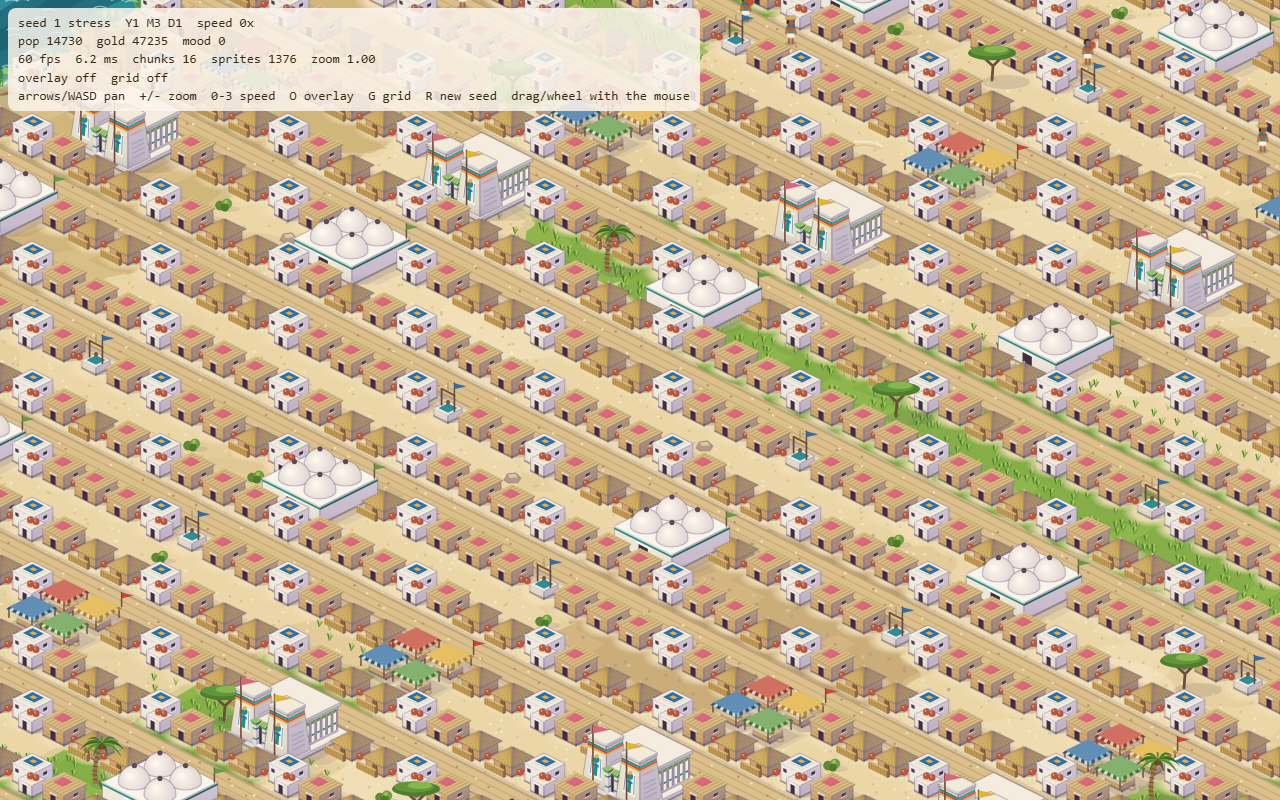
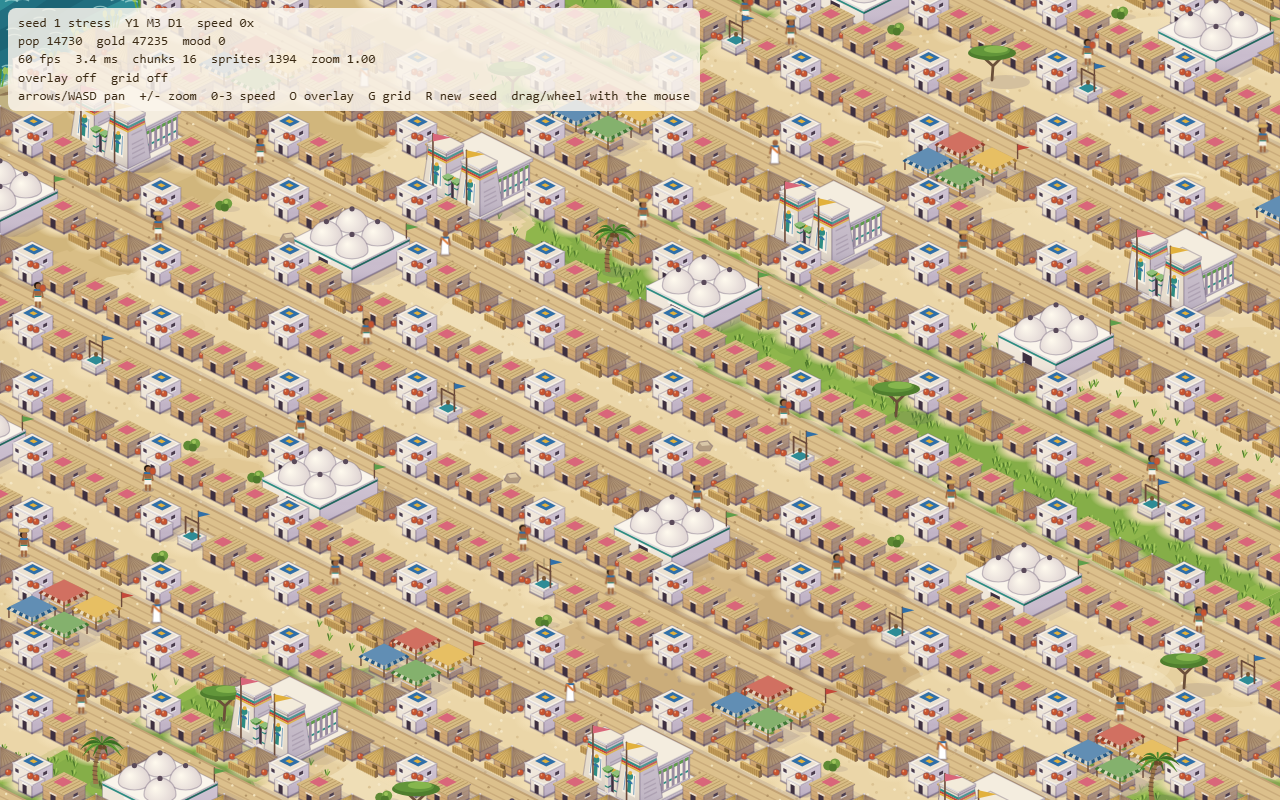
Pick the walkers nearest the view so a big city shows them where the player looks

diff --git a/src/render/walkers.js b/src/render/walkers.js
@@ -76,24 +76,39 @@ const outOfRange = (b, maxDist, range) => Boolean(range) && (
   b.x + b.w - 1 + maxDist < range.x0 || b.x - maxDist > range.x1 ||
   b.y + b.d - 1 + maxDist < range.y0 || b.y - maxDist > range.y1);
 
+// Fills `out` from `cands` ({ b, kind, maxDist }) up to the cap. With a range, the candidates nearest the
+// centre of the view go first (ties by id), because the range is a bounding box that can cover most of the map.
+function fill(world, timeDays, range, cands, out) {
+  if (range) {
+    const cx = (range.x0 + range.x1) / 2, cy = (range.y0 + range.y1) / 2;
+    for (const c of cands) c.d = Math.abs(c.b.x + c.b.w / 2 - cx) + Math.abs(c.b.y + c.b.d / 2 - cy);
+    cands.sort((a, b) => a.d - b.d || a.b.id - b.b.id);
+  }
+  for (const c of cands) {
+    if (out.length >= WALKER_CAP) break;
+    const w = positionOn(loopFor(world, c.b, c.maxDist), timeDays, c.b.id, c.kind);
+    if (w) out.push(w);
+  }
+}
+
 export function walkersAt(world, timeDays, range = null) {
   const out = [];
+  const services = [];
   for (const b of allBuildings(world)) {
-    if (out.length >= WALKER_CAP) break;
     const kind = KIND_BY_TYPE[b.type];
     if (!kind || !isWorking(world, b)) continue;
     const maxDist = reachFor(BUILDINGS[b.type]);
     if (outOfRange(b, maxDist, range)) continue;
-    const w = positionOn(loopFor(world, b, maxDist), timeDays, b.id, kind);
-    if (w) out.push(w);
+    services.push({ b, kind, maxDist });
   }
+  fill(world, timeDays, range, services, out);
+  if (out.length >= WALKER_CAP) return out;
+  const homes = [];
   for (const h of housesOf(world)) {
-    if (out.length >= WALKER_CAP) break;
     if (h.residents <= 0 || hash2(h.x, h.y, world.seed + 13) >= CITIZEN_SHARE) continue;
     if (outOfRange(h, CITIZEN_RANGE, range)) continue;
-    const kind = hash2(h.x, h.y, world.seed + 14) < 0.5 ? 'citizen' : 'woman';
-    const w = positionOn(loopFor(world, h, CITIZEN_RANGE), timeDays, h.id, kind);
-    if (w) out.push(w);
+    homes.push({ b: h, kind: hash2(h.x, h.y, world.seed + 14) < 0.5 ? 'citizen' : 'woman', maxDist: CITIZEN_RANGE });
   }
+  fill(world, timeDays, range, homes, out);
   return out;
 }

diff --git a/tests/render/walkers.test.js b/tests/render/walkers.test.js
@@ -68,4 +68,18 @@ describe('walkers', () => {
     expect(JSON.stringify(near) === JSON.stringify(far)).toBe(false);
     expect(JSON.stringify(walkersAt(w, 0.5, { x0: 40, y0: 40, x1: 63, y1: 63 }))).toBe(JSON.stringify(far));
   });
+  it('picks the walkers nearest the middle of the view, not the oldest buildings', () => {
+    const w = makeTestWorld({ size: 64 });
+    for (let y = 2; y < 62; y += 4) setRoad(w, 0, y, 63, y);
+    for (let y = 2; y < 62; y += 4) for (let x = 1; x < 63; x += 6) addRaw(w, 'well', x, y + 1);
+    staffAll(w);
+    const view = { x0: 20, y0: 20, x1: 44, y1: 44 };
+    const list = walkersAt(w, 0.5, view);
+    expect(list.length).toBe(WALKER_CAP);
+    // Wells sit 6 apart in x and 4 in y, so the nearest 40 lie within ~22 tiles of the centre; a loop adds up to 5.
+    // The id-order crowd (first rows, y < 10) would be at least 22 further out in y alone.
+    for (const wk of list) expect(Math.abs(wk.x - 32) + Math.abs(wk.y - 32) <= 28).toBe(true);
+    expect(JSON.stringify(walkersAt(w, 0.5, view))).toBe(JSON.stringify(list));
+    expect(walkersAt(w, 0.5, null).some((wk) => wk.y < 10)).toBe(true);
+  });
 });
